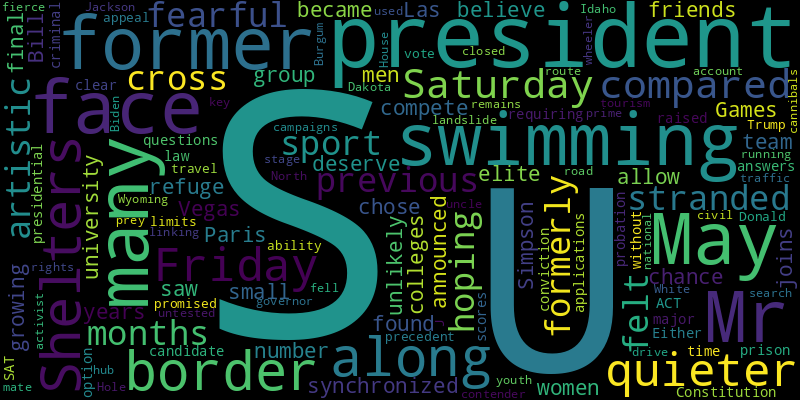
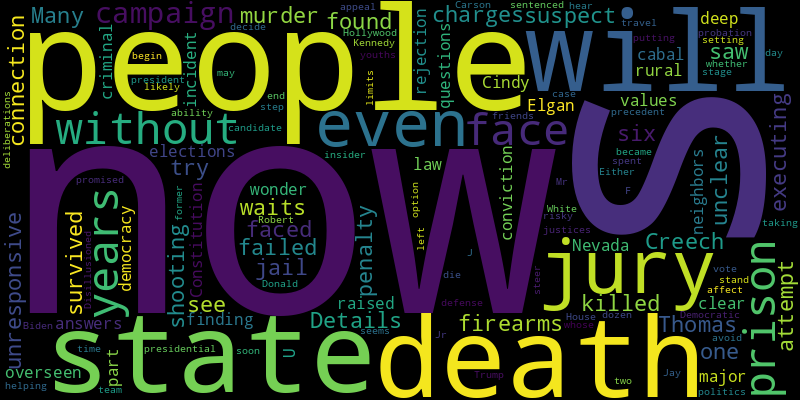
chore(bot): 🙏 auto commit

diff --git a/README.md b/README.md
@@ -2,34 +2,34 @@
 Auto RSS New York Times and Generate Word Cloud
 
 ## New York Times Global News
-* Forced into a coalition government, the prime minister faces the challenge of governing differently than he has so far in two decades in elected office.
-* The main things to know as voters in 27 countries head to the ballot box to shape the next five years of European Union policies.
-* Mr. Mosley, a British medical journalist and documentary maker, disappeared last week while on a trip on the Greek island of Symi.
+* Secretary of State Antony J. Blinken was set to meet with Israeli leaders. The United States asked the U.N. Security Council to support a cease-fire proposal that neither Israel nor Hamas has formally embraced.
+* A single image of a blustery day in wartime Moscow captures the feeling of triumph sweeping through the Russia.
+* The voting across 27 members of the European Union was a gauge of popular political sentiment at an unsettling moment on the continent. The right did well, but the center held.
+* The president’s decision, on the eve of the summer Olympic Games that begin in Paris in July, ushered in a period of deep political uncertainty in France.
+* Press freedom groups say the investigation of Gustavo Gorriti, a noted Peruvian journalist, is politically motivated and part of a growing campaign against the news media.
+* Some residents of Bari, Italy, hope Ukraine’s president will drop by while at a nearby summit to help rid them of a memento of links with Russia.
+* President Biden wrapped up a five-day trip by visiting a cemetery for American soldiers killed in World War I that Donald J. Trump skipped during a similar trip in 2018.
+* Voters in the European Union delivered strong gains to anti-immigrant, nationalist parties, challenging leaders in Germany and France, and unsettling the political establishment.
+* The peso had its worst week since the pandemic as markets reacted to fears that the government would pass constitutional changes seen as dismantling democratic checks and balances.
 * One Ukrainian researcher and podcaster is a leading voice in efforts to rethink Ukrainian-Russian relations through the prism of colonialism.
-* The rescue killed scores of Palestinians, Gazan officials say, and Israelis acknowledge that such operations will never reach all of the remaining hostages.
-* Under Emmanuel Macron, “culinary diplomacy” is back on the menu, with a lavish dinner fortifying an old alliance at a tense historical moment.
-* The Buenos Aires Yoga School promised spiritual salvation, but former members and prosecutors say it pushed some female members into prostitution as it cultivated powerful friends.
-* Cans packed with caffeine and branded with patriotic machismo have become an essential antidote to the stresses of war.
-* The two presidents, in a brief appearance before reporters, declined to take questions, in a departure from tradition.
-* A reality show called “The Conclave” put Belgium’s political rivals together in a medieval château for a weekend. Can they put aside their differences and help keep the country from coming apart?
 
 ![Global](./global.png)
 ## New York Times United States News
-* Shelters along the border were quieter on Friday and Saturday compared with previous months, but many hoping to cross into the U.S. felt stranded and fearful.
-* When the sport of artistic swimming, formerly synchronized swimming, announced it would allow men to compete in the Paris Games, Bill May saw his chance. But the U.S. team chose only women.
-* Las Vegas became a refuge that many believe Mr. Simpson did not deserve in his final years. There, he found an unlikely group of friends.
-* The university joins a small but growing number of elite colleges requiring SAT or ACT scores in applications once again.
+* The suspect, who faced murder and firearms charges in connection to the shooting that killed six people, was found unresponsive at the jail. Details of his death were unclear.
+* At 73, Thomas Creech is one of the few people to have survived a failed attempt at executing the death penalty. Now he waits to see if the state will try again.
+* Many saw in the jury’s finding a rejection of themselves, of their values and even of democracy itself.
+* Cindy Elgan has overseen elections in rural Nevada without incident for 20 years, but now even her neighbors wonder if she’s part of “the deep state cabal.”
 * The Constitution and U.S. law have clear answers for only some of the questions raised by the criminal conviction of a major presidential candidate.
 * The former president could face probation or prison time. Either option would be without precedent.
 * Donald J. Trump has promised to appeal, but he may face limits on his ability to travel and to vote as he campaigns for the White House.
-* The road, linking Idaho with Wyoming, is a key route to Jackson Hole, a tourism hub. It had been closed to traffic before the landslide.
-* Mr. Burgum, North Dakota’s governor, is a prime contender in the former president’s search for a running mate, but he remains untested on the national stage.
-* By President Biden’s account, he was a fierce civil rights activist in his youth, had an uncle who fell prey to cannibals and used to drive an 18-wheeler.
+* The justices will soon decide whether to hear a case that could affect more than two dozen youths sentenced to die in prison.
+* The defense team seems more likely to avoid taking the risky step of putting Mr. Biden on the stand, setting the stage for the jury to begin deliberations by day’s end.
+* Jay Carson spent years as a Democratic insider. Disillusioned, he left politics for Hollywood and became friends with Robert F. Kennedy Jr. — whose campaign he is now helping to steer.
 
 ![US](./usnews.png)
 ## New York Times Asia News
+* Also, Benny Gantz leaves Israel’s government.
 * Forced into a coalition government, the prime minister faces the challenge of governing differently than he has so far in two decades in elected office.
-* Cans packed with caffeine and branded with patriotic machismo have become an essential antidote to the stresses of war.
 * Truong Huy San was accused of “abusing democratic freedoms,” a charge that rights groups say has been frequently used against critics of the government.
 * China’s expansion and Russia’s threats of using nuclear weapons in Ukraine and in space have changed a U.S. drive to reduce nuclear weapons.
 * A cultural historian, he was dismisses by Stanford over his opposition to the Vietnam War, a stance that became a cause célèbre of academic freedom.
